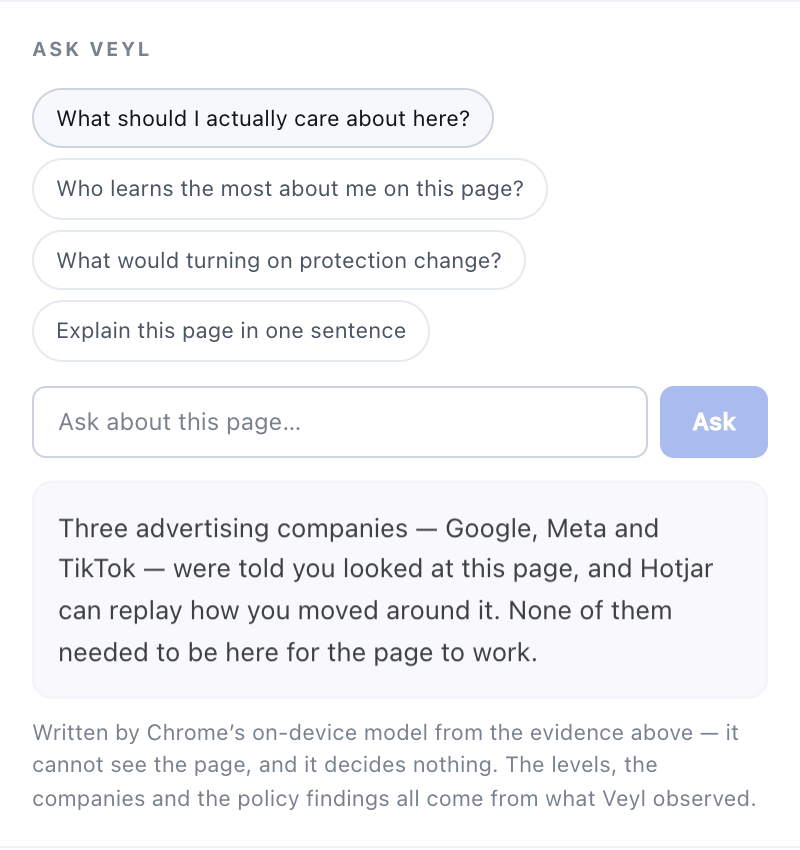
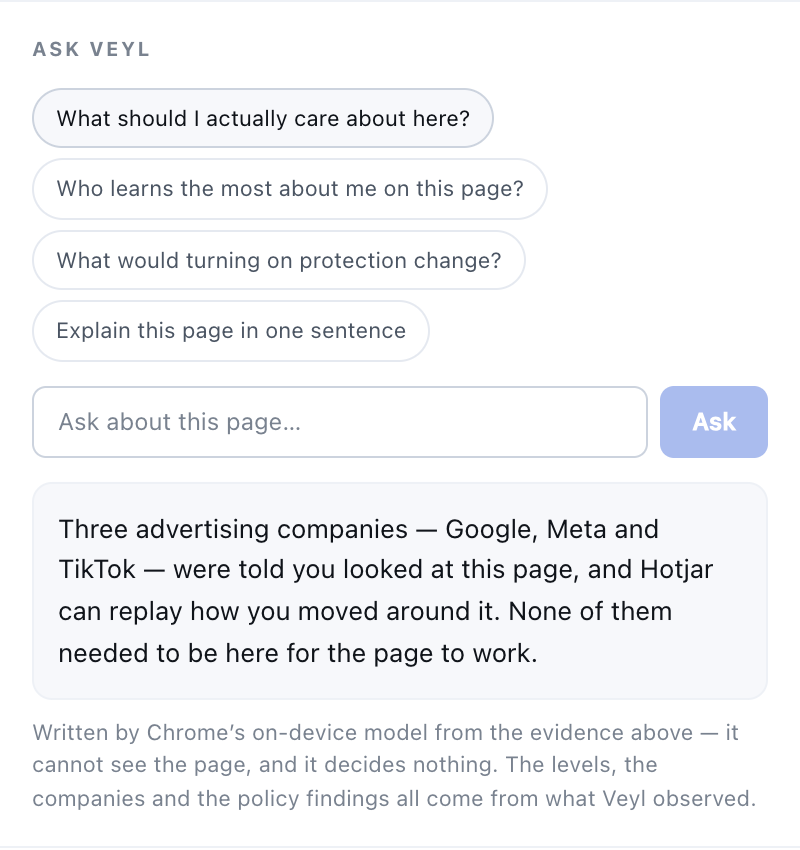
Report on the tab you are actually looking at, and call it 1.0.0
Standing on a new tab or a chrome:// page, the popup showed a full report for
whichever site you had visited last. The service worker fell back to the most
recently used web page when the active tab was not analysable, and the header
duly named a site you were not on. In a product whose whole question is "what is
*this* site doing", answering about a different site is worse than answering
nothing, so the fallback is gone: an unanalysable tab now reports as
unanalysable.

Removing it needed the popup to be able to name its own subject, which turned
into a feature worth having anyway — "open in a tab" opens the same report full
width, carrying the tab id in the address. The tests drive that same route, so
what they exercise is what a person exercises rather than a path built for them.

Version 1.0.0. Nothing about the code says preview any more.

Changed region(s): [[0.0625, 0.6118, 0.875, 0.7953]]

diff --git a/src/background/index.ts b/src/background/index.ts
@@ -269,27 +269,21 @@ chrome.runtime.onMessage.addListener((message: Message, sender, sendResponse) =>
 });
 
 /**
- * The tab the person is actually looking at.
+ * The tab the person is looking at — and never a different one.
  *
- * Usually the active tab, but Veyl's own pages can be in front (the settings
- * page, or a report opened in a tab), and a report about the settings page
- * helps nobody. In that case fall back to the most recently used web page.
+ * Veyl once fell back to the most recently used web page when the active tab
+ * was not analysable, which meant standing on a new tab or a chrome:// page
+ * showed a full report for some other site. In a product whose whole question
+ * is "what is *this* site doing", answering about a different site is worse
+ * than answering nothing, so there is no fallback: an unanalysable tab is
+ * reported as unanalysable.
+ *
+ * Opening the popup from the toolbar grants `activeTab`, which is what makes a
+ * real site's url readable here even before it has been granted.
  */
 async function activeTabId(): Promise<number | null> {
   const [active] = await chrome.tabs.query({ active: true, currentWindow: true });
-  if (active?.id !== undefined && isWebPage(active.url)) return active.id;
-
-  // Chrome hides a tab's url from an extension with no access to it, so an
-  // absent url is ambiguous: it could be a site awaiting permission, or one of
-  // Veyl's own pages. Opening the popup from the toolbar grants `activeTab`,
-  // which makes the real case readable; otherwise prefer the last web page.
-  const tabs = (await chrome.tabs.query({})).filter((tab) => isWebPage(tab.url) && tab.id !== undefined);
-  tabs.sort((a, b) => (b.lastAccessed ?? 0) - (a.lastAccessed ?? 0));
-  return tabs[0]?.id ?? active?.id ?? null;
-}
-
-function isWebPage(url: string | undefined): boolean {
-  return url !== undefined && (url.startsWith('http://') || url.startsWith('https://'));
+  return active?.id ?? null;
 }
 
 

diff --git a/src/popup/App.tsx b/src/popup/App.tsx
@@ -15,11 +15,21 @@ type State =
   | { kind: 'unavailable'; report: UnavailableReport }
   | { kind: 'starting' };
 
+/**
+ * The popup normally reports on whichever tab is in front. Opened in a tab of
+ * its own — from "open in a tab", where the full report is easier to read — it
+ * carries the tab it is about in the address instead.
+ */
+const pinnedTab = (() => {
+  const value = Number(new URLSearchParams(location.search).get('tab'));
+  return Number.isInteger(value) && value > 0 ? value : null;
+})();
+
 export function App() {
   const [state, setState] = useState<State>({ kind: 'loading' });
 
   const load = useCallback(async () => {
-    const result = await send({ type: 'get-report' });
+    const result = await send(pinnedTab === null ? { type: 'get-report' } : { type: 'get-report', tabId: pinnedTab });
     setState(result.status === 'ok' ? { kind: 'report', report: result } : { kind: 'unavailable', report: result as UnavailableReport });
   }, []);
 
@@ -80,6 +90,18 @@ export function App() {
       <footer class="footer">
         <span>Everything here was worked out on your device.</span>
         <span class="footer__spacer" />
+        {pinnedTab === null && (
+          <button
+            type="button"
+            class="linkish"
+            onClick={async () => {
+              const [tab] = await chrome.tabs.query({ active: true, currentWindow: true });
+              if (tab?.id) await chrome.tabs.create({ url: `popup/index.html?tab=${tab.id}` });
+            }}
+          >
+            Open in a tab
+          </button>
+        )}
         <button type="button" class="linkish" onClick={() => chrome.runtime.openOptionsPage()}>
           Settings
         </button>

diff --git a/docs/code-tour.md b/docs/code-tour.md
@@ -167,6 +167,10 @@ The sections mirror the domain: `sections/observed.tsx` (what Veyl saw),
 `sections/declared.tsx` (what the site says, and where they disagree),
 `sections/protection.tsx` (the control).
 
+`App.tsx` reports on whichever tab is in front, unless it was opened with `?tab=<id>` —
+the route "open in a tab" takes, and the route the tests use, so what they exercise is
+what a person exercises.
+
 Neither interface imports from `background/`. Shared copy lives in `domain/settings.ts`,
 and the knowledge counts come over the message protocol — which is also why the popup
 bundle is 37 KB rather than 182 KB.

diff --git a/docs/user-guide.md b/docs/user-guide.md
@@ -182,6 +182,9 @@ works exactly the same. Veyl's settings page reports the status.
 
 ---
 
+> **The popup feels cramped?** *Open in a tab* at the bottom of the report opens the
+> same thing full width, still about the page you were on.
+
 ## Settings
 
 ![Veyl's settings page](images/settings.png)
